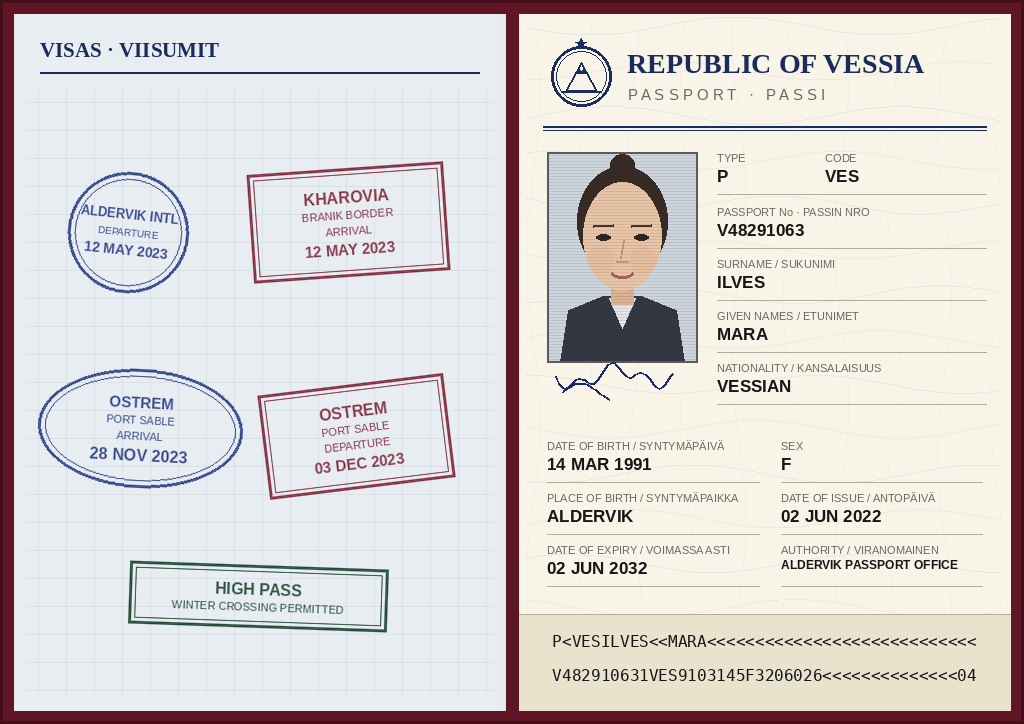
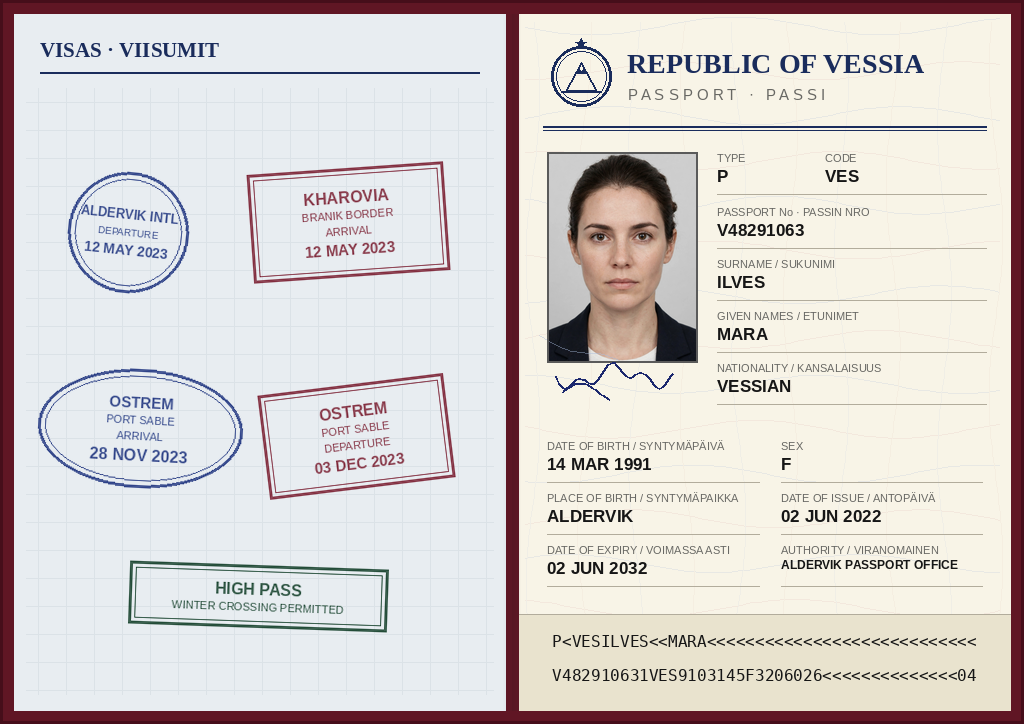
Replace drawn portrait with the holder's ID photo

Changed region(s): [[0.5312, 0.2127, 0.6875, 0.5166]]

diff --git a/draw_passport.py b/draw_passport.py
@@ -8,7 +8,7 @@ small grey bilingual labels, bold black values, thin rules between rows.
 import math
 import os
 
-from PIL import Image, ImageDraw, ImageFont
+from PIL import Image, ImageDraw, ImageEnhance, ImageFont
 
 HERE = os.path.dirname(os.path.abspath(__file__))
 OUT = os.path.join(HERE, "entry.png")
@@ -72,42 +72,33 @@ def draw_emblem(draw, cx, cy, r):
 
 # ---- portrait --------------------------------------------------------------
 def draw_portrait(base, x, y, w, h):
-    """Engraved-style printed portrait inside the box at (x, y, w, h)."""
-    p = Image.new("RGB", (w, h), (206, 213, 221))
-    d = ImageDraw.Draw(p, "RGBA")
-    cx = w // 2
-    # shoulders / dark jacket
-    d.polygon([(cx - 62, h), (cx - 54, h - 52), (cx - 20, h - 66),
-               (cx + 20, h - 66), (cx + 54, h - 52), (cx + 62, h)],
-              fill=(52, 54, 66))
-    # shirt V
-    d.polygon([(cx - 13, h - 64), (cx + 13, h - 64), (cx, h - 34)],
-              fill=(226, 228, 230))
-    # neck
-    d.rectangle([cx - 11, h - 84, cx + 11, h - 58], fill=(219, 178, 146))
-    # hair, pulled back: a dark shape behind the face, plus a small bun
-    d.ellipse([cx - 45, 14, cx + 45, 124], fill=(56, 42, 36))
-    d.ellipse([cx - 12, 2, cx + 12, 24], fill=(56, 42, 36))
-    # face
-    d.ellipse([cx - 39, 30, cx + 39, 138], fill=(233, 197, 168))
-    # soft shading on the cheeks
-    d.ellipse([cx - 34, 92, cx - 8, 122], fill=(224, 178, 146, 90))
-    d.ellipse([cx + 8, 92, cx + 34, 122], fill=(224, 178, 146, 90))
-    # brows and eyes
-    for sgn in (-1, 1):
-        ex = cx + sgn * 19
-        d.line([ex - 10, 74, ex + 10, 73], fill=(70, 52, 44), width=3)
-        d.ellipse([ex - 7, 82, ex + 7, 88], fill=(46, 38, 34))
-    # nose
-    d.line([cx + 1, 88, cx - 2, 106], fill=(196, 152, 118), width=2)
-    d.line([cx - 6, 109, cx + 6, 109], fill=(196, 152, 118), width=2)
-    # mouth
-    d.arc([cx - 12, 112, cx + 12, 126], start=15, end=165,
-          fill=(168, 96, 92), width=3)
-    # fine horizontal print lines over the whole portrait
-    for ly in range(0, h, 3):
-        d.line([0, ly, w, ly], fill=(30, 30, 40, 26), width=1)
-    base.paste(p, (x, y))
+    """The holder's ID photo (portrait.png) set into the box at (x, y, w, h).
+
+    The photo is centre-cropped to the box's aspect ratio, taking the crop
+    mostly from the bottom (shoulders) so the face sits as in an ID photo,
+    then printed with slightly reduced saturation. One faint guilloche
+    curve overlaps the photo's bottom corner, the way real data pages
+    print over the photo edge, and the usual frame border closes the box.
+    """
+    src = Image.open(os.path.join(HERE, "portrait.png")).convert("RGB")
+    sw, sh = src.size
+    crop_h = int(sh * 0.92)                    # keep the head, trim shoulders
+    crop_w = int(crop_h * w / h)
+    cx0 = (sw - crop_w) // 2
+    cy0 = int(sh * 0.04)                       # small margin above the hair
+    photo = src.crop((cx0, cy0, cx0 + crop_w, cy0 + crop_h))
+    photo = photo.resize((w, h), Image.LANCZOS)
+    photo = ImageEnhance.Color(photo).enhance(0.85)
+    base.paste(photo, (x, y))
+    # one faint guilloche curve printed over the photo's bottom-left corner
+    over = Image.new("RGBA", base.size, (0, 0, 0, 0))
+    od = ImageDraw.Draw(over)
+    pts = []
+    for px in range(x - 8, x + 76, 4):
+        py = y + h - 22 + (px - x) * 0.32 + 3.5 * math.sin((px - x) / 13.0)
+        pts.append((px, py))
+    od.line(pts, fill=(168, 186, 218, 110), width=1)
+    base.alpha_composite(over)
     ImageDraw.Draw(base).rectangle([x, y, x + w, y + h],
                                    outline=(90, 90, 90), width=2)
 
